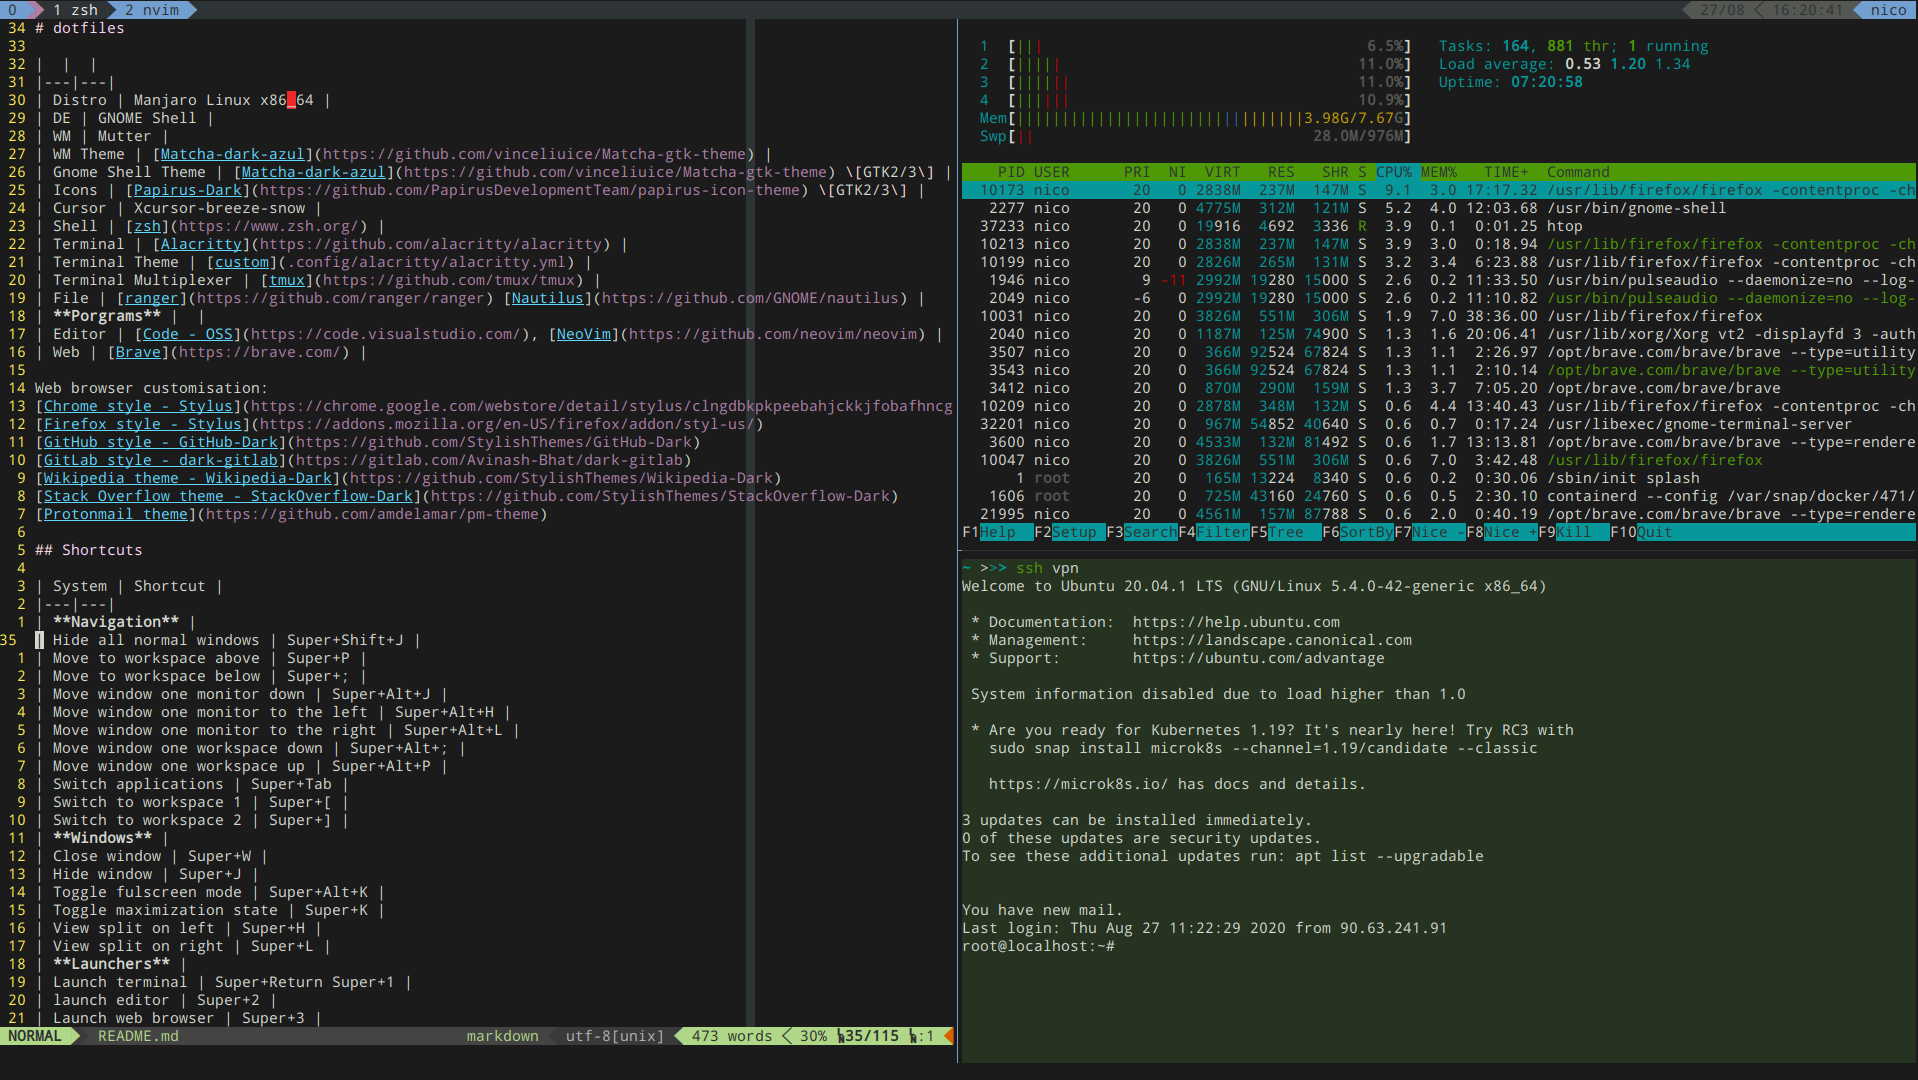
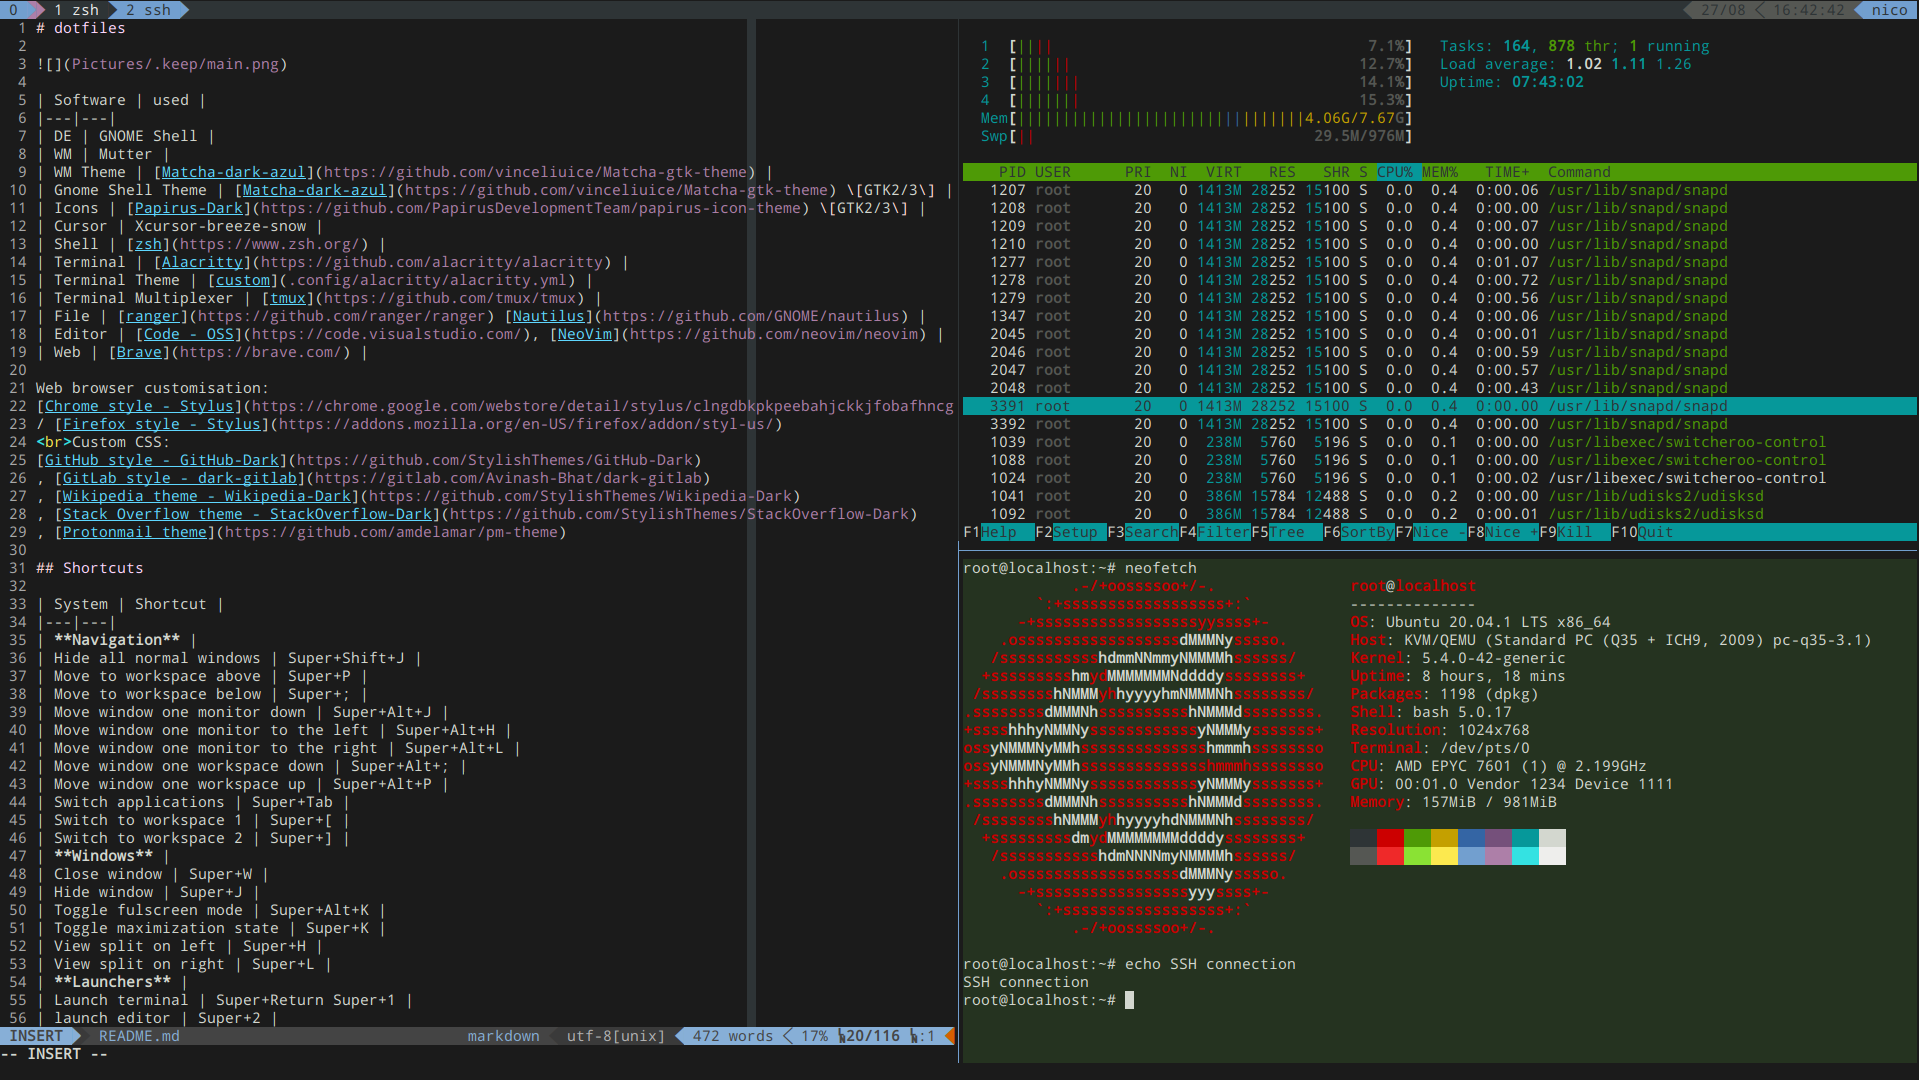
new preview picture

diff --git a/README.md b/README.md
@@ -15,18 +15,18 @@
 | Terminal Theme | [custom](.config/alacritty/alacritty.yml) |
 | Terminal Multiplexer | [tmux](https://github.com/tmux/tmux) |
 | File | [ranger](https://github.com/ranger/ranger) [Nautilus](https://github.com/GNOME/nautilus) |
-| **Porgrams** |  |
 | Editor | [Code - OSS](https://code.visualstudio.com/), [NeoVim](https://github.com/neovim/neovim) |
 | Web | [Brave](https://brave.com/) |
 
 Web browser customisation:
 [Chrome style - Stylus](https://chrome.google.com/webstore/detail/stylus/clngdbkpkpeebahjckkjfobafhncgmne)
-[Firefox style - Stylus](https://addons.mozilla.org/en-US/firefox/addon/styl-us/)
+/ [Firefox style - Stylus](https://addons.mozilla.org/en-US/firefox/addon/styl-us/)
+<br>Custom CSS:
 [GitHub style - GitHub-Dark](https://github.com/StylishThemes/GitHub-Dark)
-[GitLab style - dark-gitlab](https://gitlab.com/Avinash-Bhat/dark-gitlab)
-[Wikipedia theme - Wikipedia-Dark](https://github.com/StylishThemes/Wikipedia-Dark)
-[Stack Overflow theme - StackOverflow-Dark](https://github.com/StylishThemes/StackOverflow-Dark)
-[Protonmail theme](https://github.com/amdelamar/pm-theme)
+, [GitLab style - dark-gitlab](https://gitlab.com/Avinash-Bhat/dark-gitlab)
+, [Wikipedia theme - Wikipedia-Dark](https://github.com/StylishThemes/Wikipedia-Dark)
+, [Stack Overflow theme - StackOverflow-Dark](https://github.com/StylishThemes/StackOverflow-Dark)
+, [Protonmail theme](https://github.com/amdelamar/pm-theme)
 
 ## Shortcuts
 
